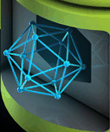
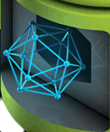
Add a background texture. Animate during nandroids. Fix dir count.

Changed region(s): [[0.0, 0.7273, 0.2455, 1.0]]

diff --git a/ui.c b/ui.c
@@ -77,6 +77,7 @@ static gr_surface *gProgressBarIndeterminate;
 static gr_surface gProgressBarEmpty;
 static gr_surface gProgressBarFill;
 static gr_surface gVirtualKeys; // surface for our virtual key buttons
+static gr_surface gBackground;
 static int ui_has_initialized = 0;
 static int ui_log_stdout = 1;
 
@@ -89,6 +90,7 @@ static const struct { gr_surface* surface; const char *name; } BITMAPS[] = {
     { &gProgressBarEmpty,               "progress_empty" },
     { &gProgressBarFill,                "progress_fill" },
     { &gVirtualKeys,                    "virtual_keys" },
+    { &gBackground,                "stitch" },
     { NULL,                             NULL },
 };
 
@@ -160,8 +162,20 @@ static void draw_install_overlay_locked(int frame) {
 static void draw_background_locked(int icon)
 {
     gPagesIdentical = 0;
-    gr_color(0, 0, 0, 255);
-    gr_fill(0, 0, gr_fb_width(), gr_fb_height());
+    // gr_color(0, 0, 0, 255);
+    // gr_fill(0, 0, gr_fb_width(), gr_fb_height());
+
+    {
+        int bw = gr_get_width(gBackground);
+        int bh = gr_get_height(gBackground);
+        int bx = 0;
+        int by = 0;
+        for (by = 0; by < gr_fb_height(); by += bh) {
+            for (bx = 0; bx < gr_fb_width(); bx += bw) {
+                gr_blit(gBackground, 0, 0, bw, bh, bx, by);
+            }
+        }
+    }
 
     if (icon) {
         gr_surface surface = gBackgroundIcon[icon];
@@ -806,19 +820,15 @@ void ui_print(const char *fmt, ...)
         struct timeval curtime;
         gettimeofday(&curtime, NULL);
         long ms = delta_milliseconds(lastupdate, curtime);
-        if (ms < 0) {
-            lastupdate = curtime;
-            ms = NICE_INTERVAL;
-        }
-        if (ms < NICE_INTERVAL) {
+        if (ms < NICE_INTERVAL && ms >= 0) {
             ui_niced = 1;
             return;
         }
-        lastupdate = curtime;
     }
 
     // This can get called before ui_init(), so be careful.
     pthread_mutex_lock(&gUpdateMutex);
+    gettimeofday(&lastupdate, NULL);
     if (text_rows > 0 && text_cols > 0) {
         char *ptr;
         for (ptr = buf; *ptr != '\0'; ++ptr) {
@@ -1119,4 +1129,9 @@ void ui_delete_line() {
     text_row = (text_row - 1 + text_rows) % text_rows;
     text_col = 0;
     pthread_mutex_unlock(&gUpdateMutex);
+}
+
+void ui_increment_frame() {
+    gInstallingFrame =
+        (gInstallingFrame + 1) % ui_parameters.installing_frames;
 }

diff --git a/nandroid.c b/nandroid.c
@@ -78,6 +78,7 @@ static void nandroid_callback(const char* filename)
         tmp[strlen(tmp) - 1] = NULL;
     tmp[ui_get_text_cols() - 1] = '\0';
     nandroid_files_count++;
+    ui_increment_frame();
     ui_nice_print("%s\n", tmp);
     if (!ui_was_niced() && nandroid_files_total != 0)
         ui_set_progress((float)nandroid_files_count / (float)nandroid_files_total);
@@ -88,7 +89,7 @@ static void nandroid_callback(const char* filename)
 static void compute_directory_stats(const char* directory)
 {
     char tmp[PATH_MAX];
-    sprintf(tmp, "find %s | wc -l > /tmp/dircount", directory);
+    sprintf(tmp, "find %s | %s wc -l > /tmp/dircount", directory, strcmp(directory, "/data") == 0 && is_data_media() ? "grep -v /data/media |" : "");
     __system(tmp);
     char count_text[100];
     FILE* f = fopen("/tmp/dircount", "r");

diff --git a/common.h b/common.h
@@ -42,6 +42,7 @@ void ui_set_nice(int enabled);
 #define ui_nice_print(...) { ui_set_nice(1); ui_print(__VA_ARGS__); ui_set_nice(0); }
 int ui_was_niced();
 int ui_get_text_cols();
+void ui_increment_frame();
 
 // Display some header text followed by a menu of items, which appears
 // at the top of the screen (in place of any scrolling ui_print()
